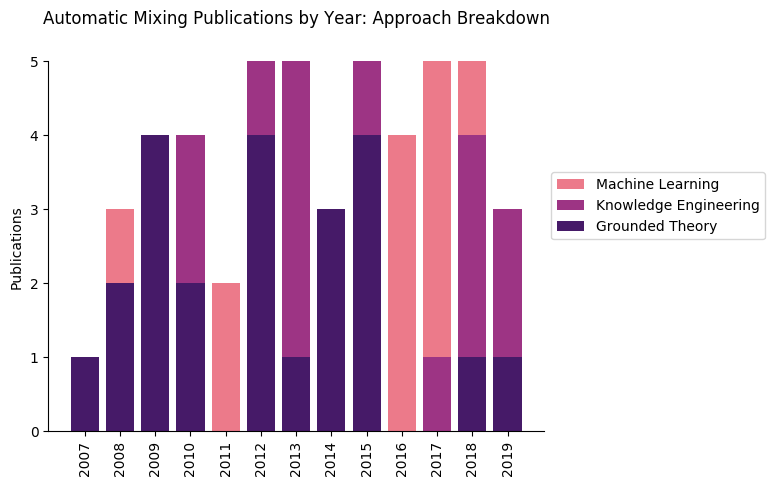
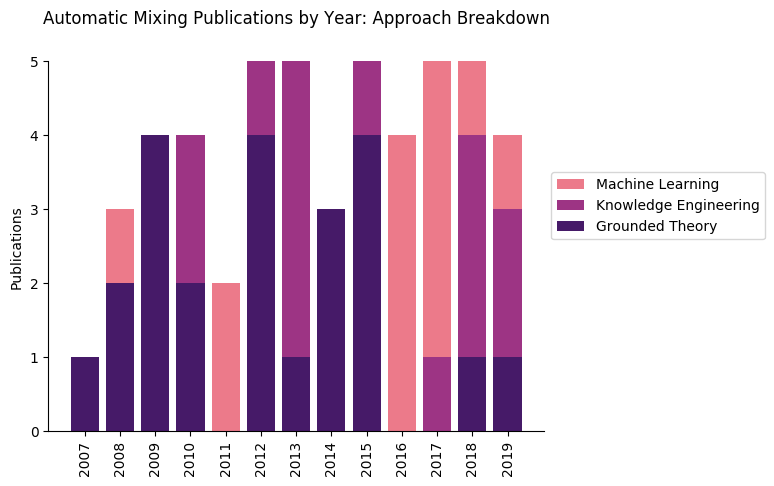
adding drc paper from sheng and fazekas

Changed region(s): [[0.6202, 0.2778, 0.6822, 0.4321]]

diff --git a/README.md b/README.md
@@ -62,6 +62,7 @@ If related code or additional resources are available for the publication a link
 ## Compression
 |Year|Title|Authors|Approach|Resources|
 |---|---|---|---|---|
+|2019|[A Feature Learning Siamese Model for Intelligent Control of the Dynamic Range Compressor](https://arxiv.org/abs/1905.01022)|D. Sheng and G. Fazekas|ML|No|
 |2018|[Adaptive Ballistics Control of Dynamic Range Compression for Percussive Tracks](http://davemoffat.com/wp/wp-content/uploads/2018/11/19748.pdf)|D. Moffat and M. B. Sandler|KE|[Yes](https://github.com/djmoffat/intelligentCompressor)|
 |2016|[Deep neural networks for dynamic range compression in mastering applications](http://www.aes.org/e-lib/browse.cfm?elib=18237)|S. I. Mimilakis et al.|ML|No|
 |2015|[Adaptive audio reproduction using personalized compression](https://www.eecs.qmul.ac.uk/~josh/documents/2015/Mason%20et%20al%20-%20AES57%20-%202015.pdf)|A. Mason et al.|GT|No|
